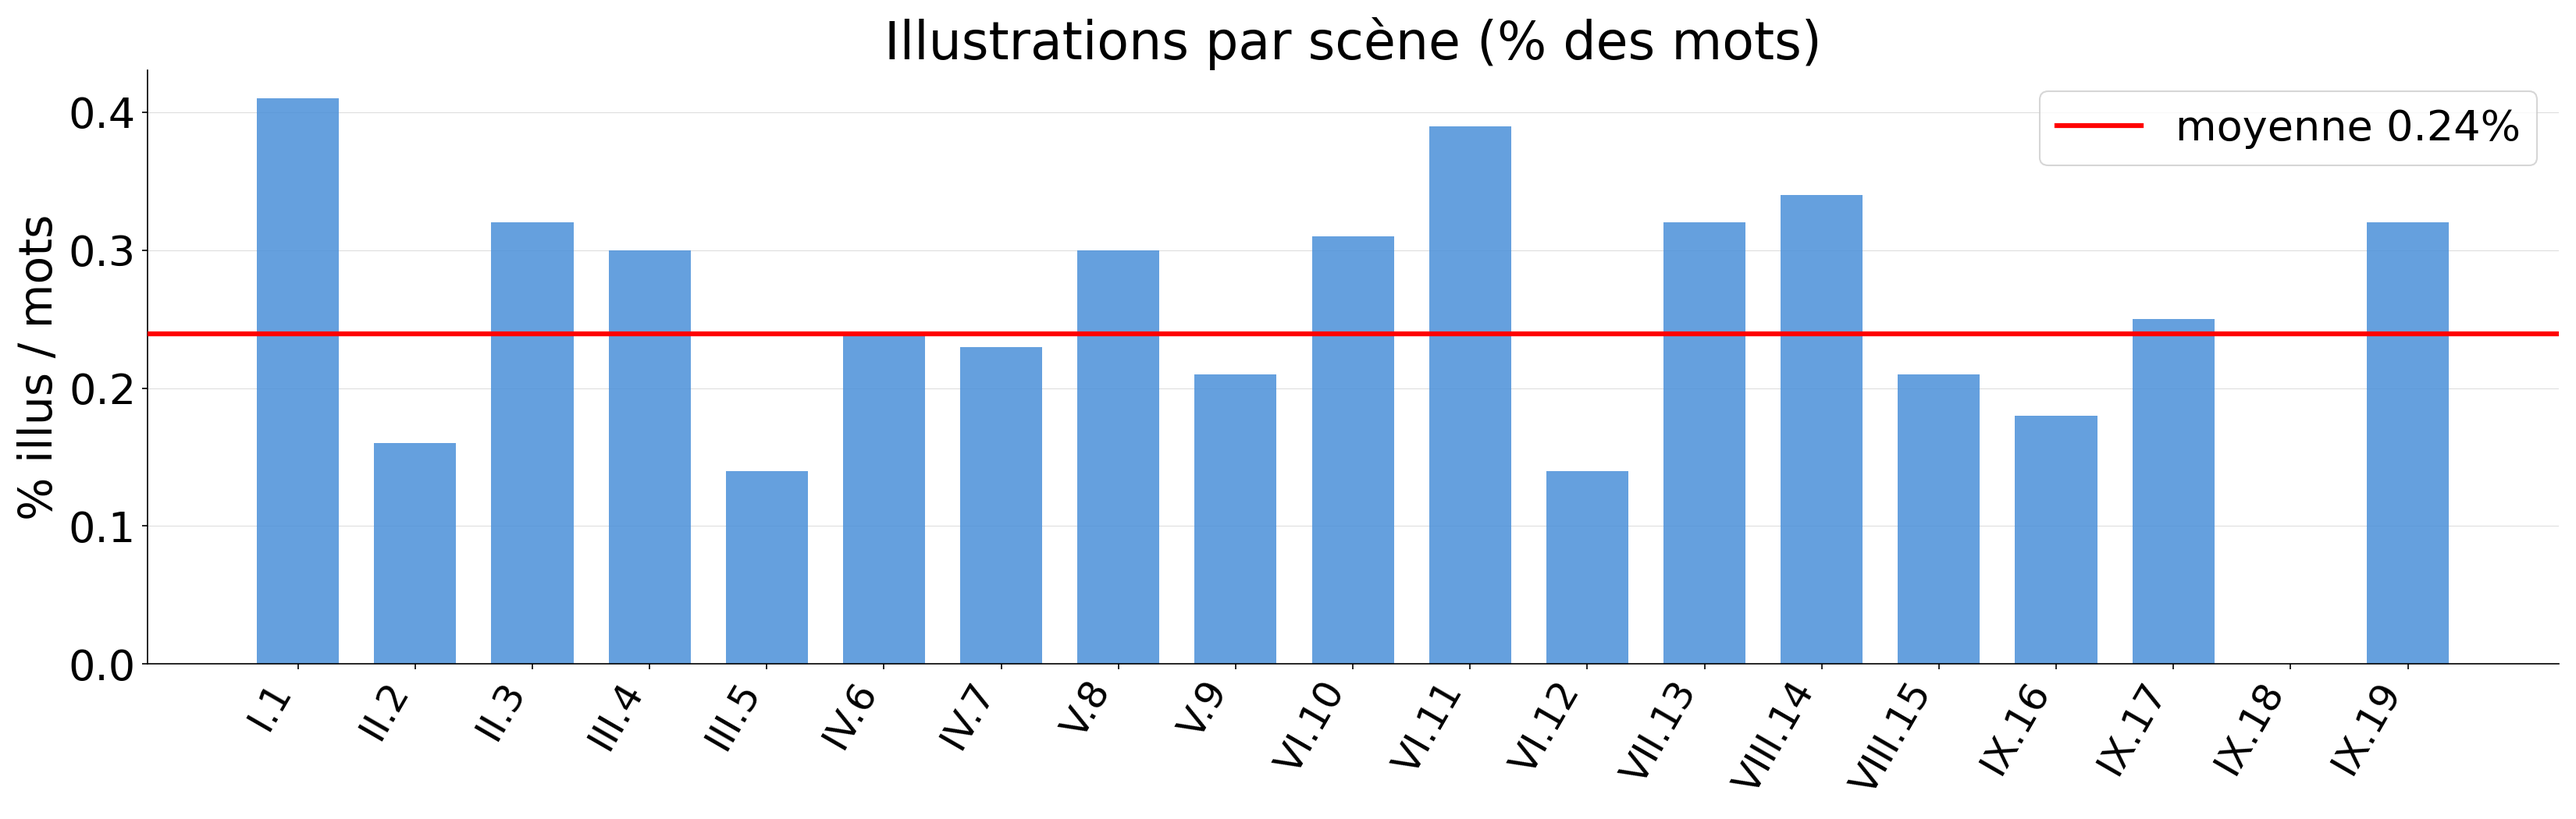
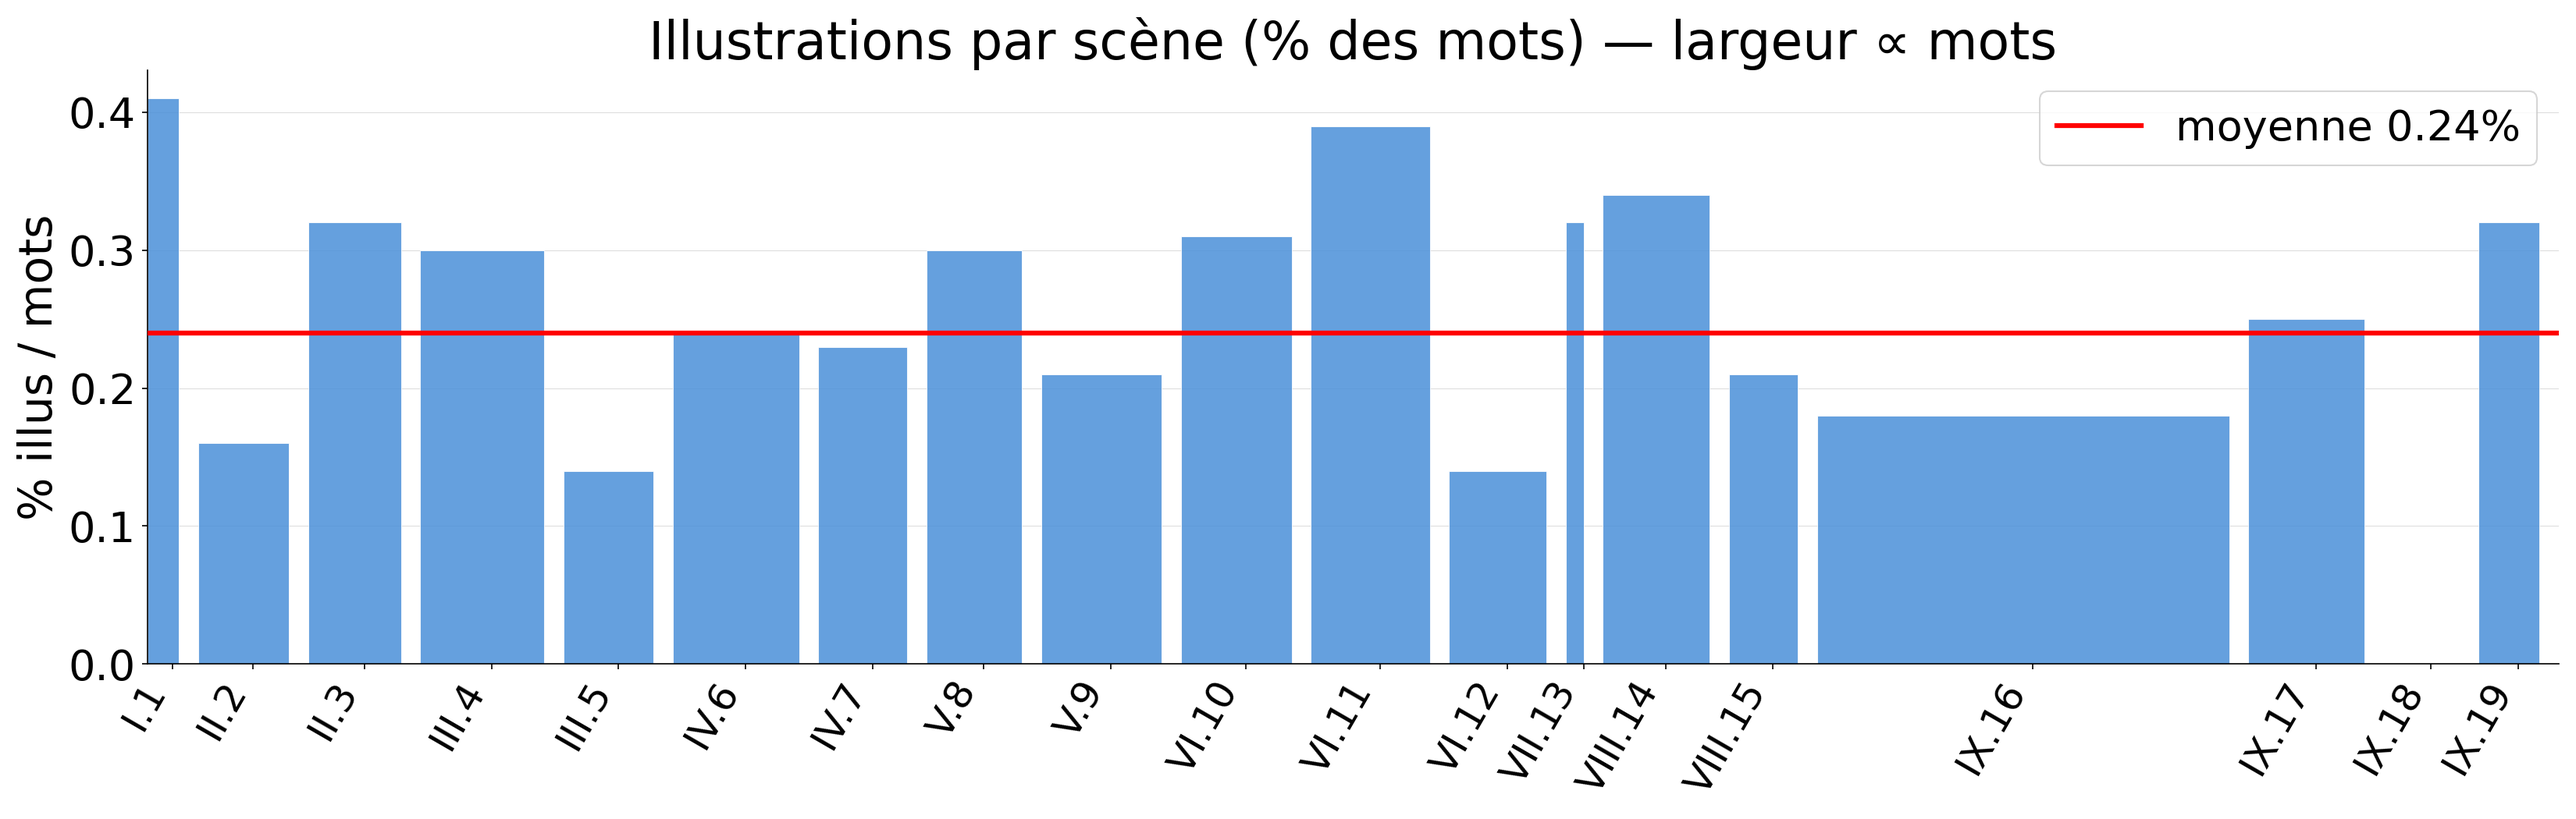
stats: Marimekko chart — bar width proportional to scene word count, fixed inter-bar gap

diff --git a/stats.py b/stats.py
@@ -15,7 +15,7 @@ ACTES_DIR = ROOT / "actes"
 BUILD     = ROOT / "build"
 OUT_FILE  = ROOT / "stats.md"
 
-ILLUS_TARGET = 418  # target: 1 illustration every N words (overridable via --target)
+ILLUS_TARGET = 417  # target: 1 illustration every N words (overridable via --target)
 
 TOC_MAIN   = BUILD / "tete_de_veau_ravigote.toc"
 TOC_TOTALE = BUILD / "tete_de_veau_ravigote_LA_TOTALE.toc"
@@ -348,7 +348,7 @@ def _md_table_split(rows: list, page_ranges: list | None = None) -> str:
 
 
 def _png_illus_chart(rows_split: list) -> str:
-    """Generate a PNG bar chart and return a markdown image reference."""
+    """Generate a Marimekko bar chart where bar width ∝ scene word count."""
     if not rows_split:
         return ""
     try:
@@ -359,22 +359,36 @@ def _png_illus_chart(rows_split: list) -> str:
         return ""
 
     scene_labels = [r[0] for r in rows_split]
-    values = [round(r[4] / r[2] * 100, 2) if r[2] else 0.0 for r in rows_split]
+    values       = [round(r[4] / r[2] * 100, 2) if r[2] else 0.0 for r in rows_split]
+    words        = [r[2] for r in rows_split]
 
-    total_words = sum(r[2] for r in rows_split)
+    total_words = sum(words)
     total_illus = sum(r[4] for r in rows_split)
-    mean_val = total_illus / total_words * 100 if total_words else 0.0
+    mean_val    = total_illus / total_words * 100 if total_words else 0.0
+
+    # Bar widths proportional to word count, scaled so total width = number of scenes
+    scale      = len(rows_split)
+    rel_widths = [w / total_words * scale for w in words]
+    lefts      = [sum(rel_widths[:i]) for i in range(len(rel_widths))]
+    centers    = [l + w / 2 for l, w in zip(lefts, rel_widths)]
 
     fig, ax = plt.subplots(figsize=(22, 7))
-    ax.bar(range(len(values)), values, color="#4a90d9", alpha=0.85, width=0.7, zorder=2)
+    gap = 0.15  # fixed inter-bar gap in scale units
+    bar_widths = [max(w - gap, gap * 0.5) for w in rel_widths]
+    for l, v, w in zip(lefts, values, bar_widths):
+        ax.bar(l, v, width=w, align="edge", color="#4a90d9", alpha=0.85,
+               zorder=2, edgecolor="white", linewidth=0.5)
     ax.axhline(mean_val, color="red", linewidth=3.0, zorder=3,
                label=f"moyenne {mean_val:.2f}%")
-    ax.set_xticks(range(len(values)))
+
+    ax.set_xticks(centers)
     ax.set_xticklabels(scene_labels, rotation=60, ha="right", fontsize=24)
+    ax.set_xlim(0, scale)
     ax.set_ylabel("% illus / mots", fontsize=28)
-    ax.set_title("Illustrations par scène (% des mots)", fontsize=32)
+    ax.set_title("Illustrations par scène (% des mots) — largeur ∝ mots", fontsize=32)
     ax.tick_params(axis="y", labelsize=26)
     ax.legend(fontsize=26)
+
     ax.grid(axis="y", linewidth=0.5, color="#ddd", zorder=0)
     ax.spines["top"].set_visible(False)
     ax.spines["right"].set_visible(False)

diff --git a/stats.md b/stats.md
@@ -20,13 +20,13 @@ Mots = texte original uniquement (hors contenu des notes `\nf{}`).
 | VII.13 | Et on y est allé, figurez-vous, car… | 457 |  16 |   2 852 |   1.53% |  56.21% |    13 |  0.46% |             9 |  0.32% |
 | VIII.14 | Trois quarts d’heure plus tard, après avoir… | 473 |  36 |   9 794 |   5.24% |   0.00% |    56 |  0.57% |            33 |  0.34% |
 | VIII.15 | Les chaussures à semelle de cuir sont… | 509 |  28 |   6 822 |   3.65% |  52.49% |    55 |  0.81% |            14 |  0.21% |
-| IX.16 | Cette nuit-là, j’ai fait des rêves étranges… | 537 | 124 |  33 443 |  17.89% |  20.84% |   248 |  0.74% |            60 |  0.18% |
+| IX.16 | Cette nuit-là, j’ai fait des rêves étranges… | 537 | 124 |  33 443 |  17.89% |  20.84% |   248 |  0.74% |            61 |  0.18% |
 | IX.17 | Une porte d’ascenseur venait de s’ouvrir, non… | 661 |  36 |  10 456 |   5.59% |   3.04% |    68 |  0.65% |            26 |  0.25% |
 | IX.18 | Comme beaucoup d’urgentistes souffrant de handicap visuel… | 697 |  26 |   7 373 |   3.94% |  48.11% |    10 |  0.14% |             — |      — |
 | IX.19 | Il est toujours extrêmement douloureux de mettre… | 723 | 232 |   6 214 |   3.32% |  25.43% |    23 |  0.37% |            20 |  0.32% |
-| **Total** | |  |  | **186 919** | **100%** | **29.40%** | **1080** | **0.58%** | **447** | **0.24%** |
+| **Total** | |  |  | **186 919** | **100%** | **29.40%** | **1080** | **0.58%** | **448** | **0.24%** |
 
-![Illustrations par scène](stats_illus_chart.png?v=26be0187)
+![Illustrations par scène](stats_illus_chart.png?v=47c57e5d)
 
 # Statistiques par acte (avant découpage)
 
@@ -43,12 +43,12 @@ Mots = texte original uniquement (hors contenu des notes `\nf{}`).
 | VI   | 273 | 106 |  29 852 |  15.97% |   202 |  0.68% |            86 |  0.29% |
 | VII  | 379 |  12 |   2 852 |   1.53% |    13 |  0.46% |             9 |  0.32% |
 | VIII | 391 |  54 |  16 616 |   8.89% |   111 |  0.67% |            47 |  0.28% |
-| IX   | 445 | 184 |  57 486 |  30.75% |   349 |  0.61% |           106 |  0.18% |
-| **Total** |  |  | **186 919** | **100%** | **1080** | **0.58%** | **447** | **0.24%** |
+| IX   | 445 | 184 |  57 486 |  30.75% |   349 |  0.61% |           107 |  0.19% |
+| **Total** |  |  | **186 919** | **100%** | **1080** | **0.58%** | **448** | **0.24%** |
 
 ## Estimation illustrations restantes
 
-Cible : **1 illustration tous les 418 mots** (186 919 mots → **447** illustrations).  
-Actuellement **447** — il en manque **0** — **100.0 %** réalisé.
+Cible : **1 illustration tous les 417 mots** (186 919 mots → **448** illustrations).  
+Actuellement **448** — il en manque **0** — **100.0 %** réalisé.
 
-Sous-illustrées (< 0.7× la cible) : IX.18 (0/17.6)
+Sous-illustrées (< 0.7× la cible) : IX.18 (0/17.7)
